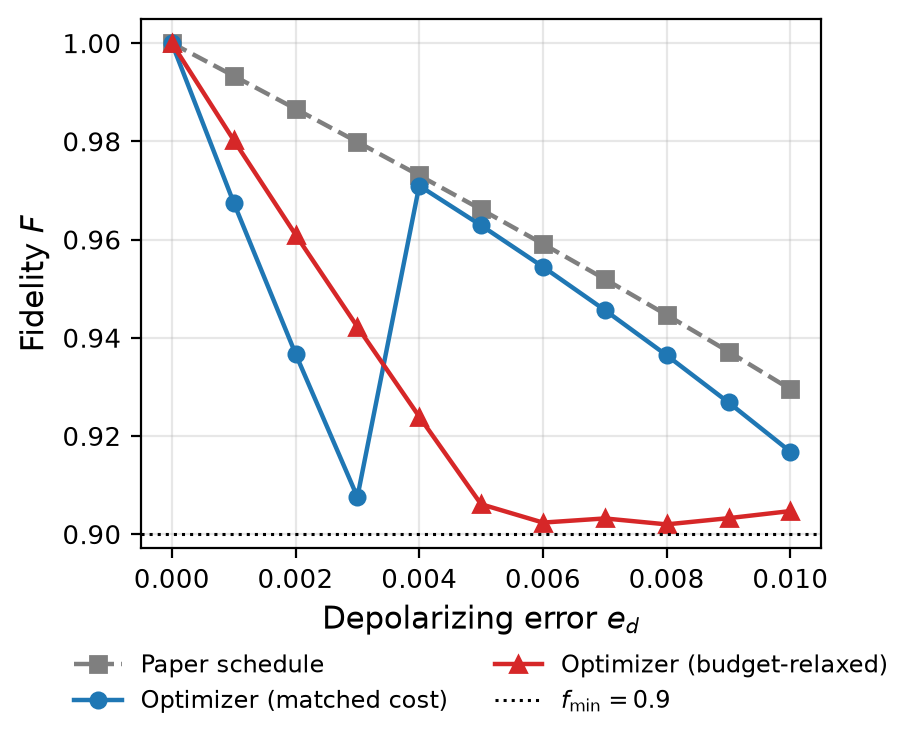
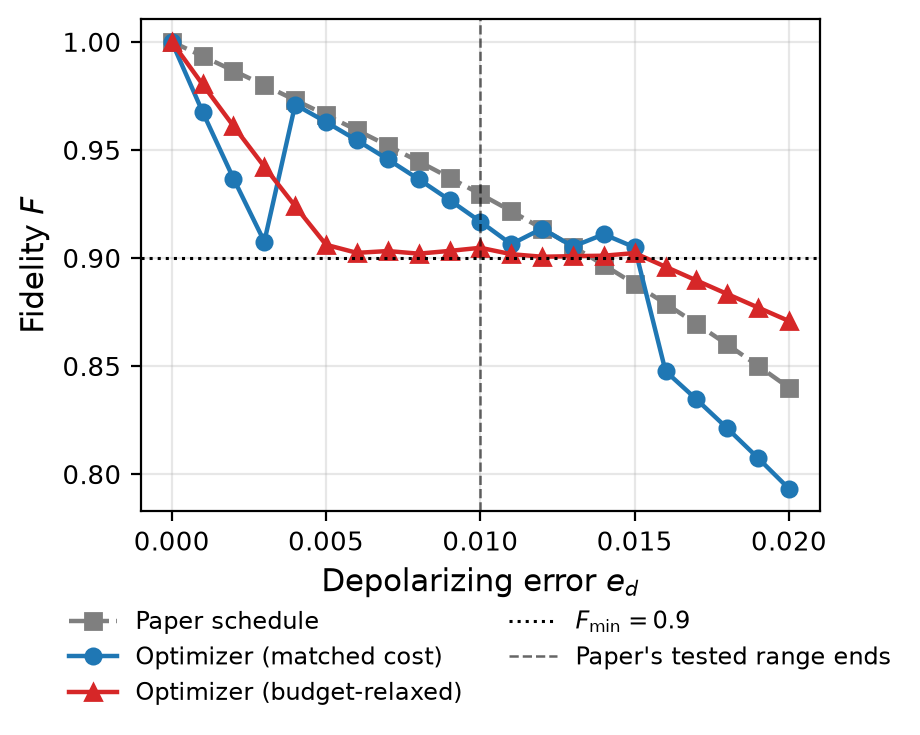
fix: update e_d-sweep figures and add extended results for fidelity and rate analysis

diff --git a/experiments/thesis_scripts/_thesis_fig_edsweep.py b/experiments/thesis_scripts/_thesis_fig_edsweep.py
@@ -5,9 +5,15 @@ One-off regeneration of the Chapter 6 e_d-sweep figures (Figure 6.1) for
 thesis placement (two 0.48\\textwidth subfigures side by side), matching
 the sizing/legend conventions used by `_thesis_fig_pareto.py`.
 
-Does NOT rerun any search or touch underlying data: reads the already-
-computed `outputs/sweep_ed_n10/results.csv`. The in-plot title is
-dropped (redundant with the LaTeX subfigure caption) to free vertical
+Reads `outputs/sweep_ed_n10/results_extended.csv`, a supplementary run
+of the same `sweep_ed.py` methodology (paper config, `e_max=100`,
+`beam_width=25`, `enable_pumping=False`) extended from the paper's own
+`e_d<=0.01` range out to `e_d=0.02`, so the fidelity panel shows the
+paper schedule's fidelity crossing below the optimizer variants once its
+fixed circuit stops sustaining $F_{min}=0.9$ (around $e_d=0.014$). Points
+up to `e_d=0.01` reproduce `results.csv` exactly; `e_d>0.01` is beyond
+the range any other reported result in this repo uses. The in-plot title
+is dropped (redundant with the LaTeX subfigure caption) to free vertical
 space, and fonts/figure size are tuned for legibility once shrunk to
 half the thesis text width.
 
@@ -29,7 +35,7 @@ sys.path.insert(0, str(_PROJECT_ROOT / "src"))
 import matplotlib.pyplot as plt
 
 OUT_DIR = _PROJECT_ROOT / "thesis" / "figures" / "results"
-CSV_PATH = _PROJECT_ROOT / "outputs" / "sweep_ed_n10" / "results.csv"
+CSV_PATH = _PROJECT_ROOT / "outputs" / "sweep_ed_n10" / "results_extended.csv"
 
 FIGSIZE = (4.6, 3.9)
 DPI = 200
@@ -98,7 +104,15 @@ def make_fidelity_plot(series: dict[str, list[tuple[float, float, float]]]) -> N
             **STYLE[variant],
         )
     ax.axhline(
-        0.9, color="black", linestyle=":", linewidth=1.1, label="$f_{\\min}=0.9$"
+        0.9, color="black", linestyle=":", linewidth=1.1, label="$F_{\\min}=0.9$"
+    )
+    ax.axvline(
+        0.01,
+        color="black",
+        linestyle="--",
+        linewidth=0.9,
+        alpha=0.6,
+        label="Paper's tested range ends",
     )
     ax.set_xlabel("Depolarizing error $e_d$", fontsize=11)
     ax.set_ylabel("Fidelity $F$", fontsize=11)
